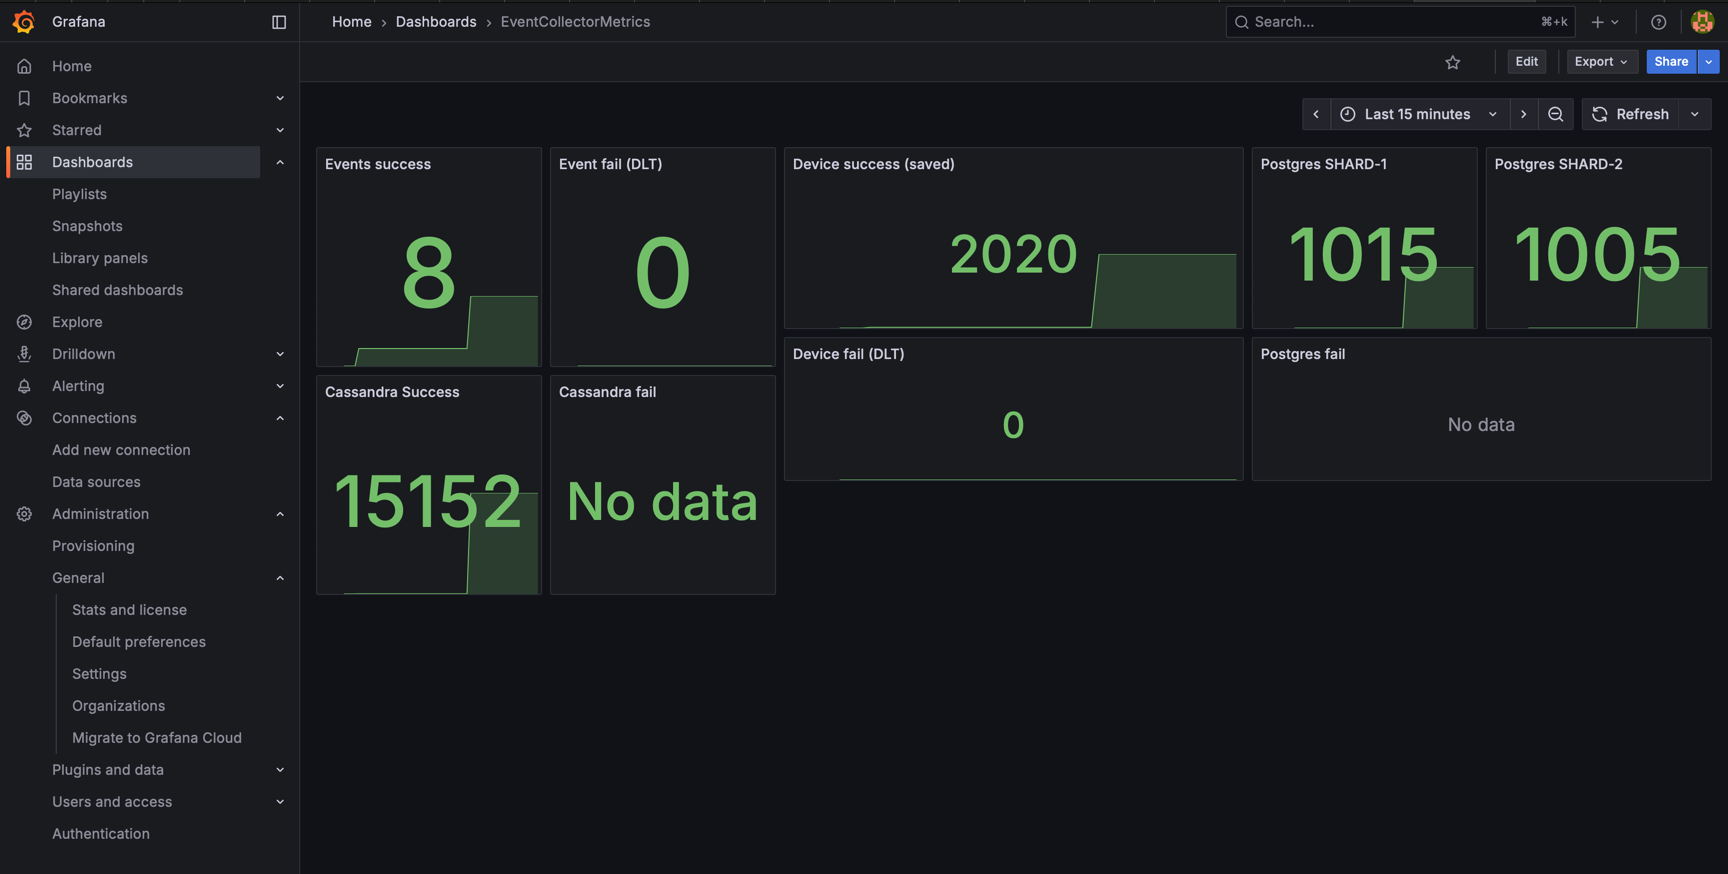
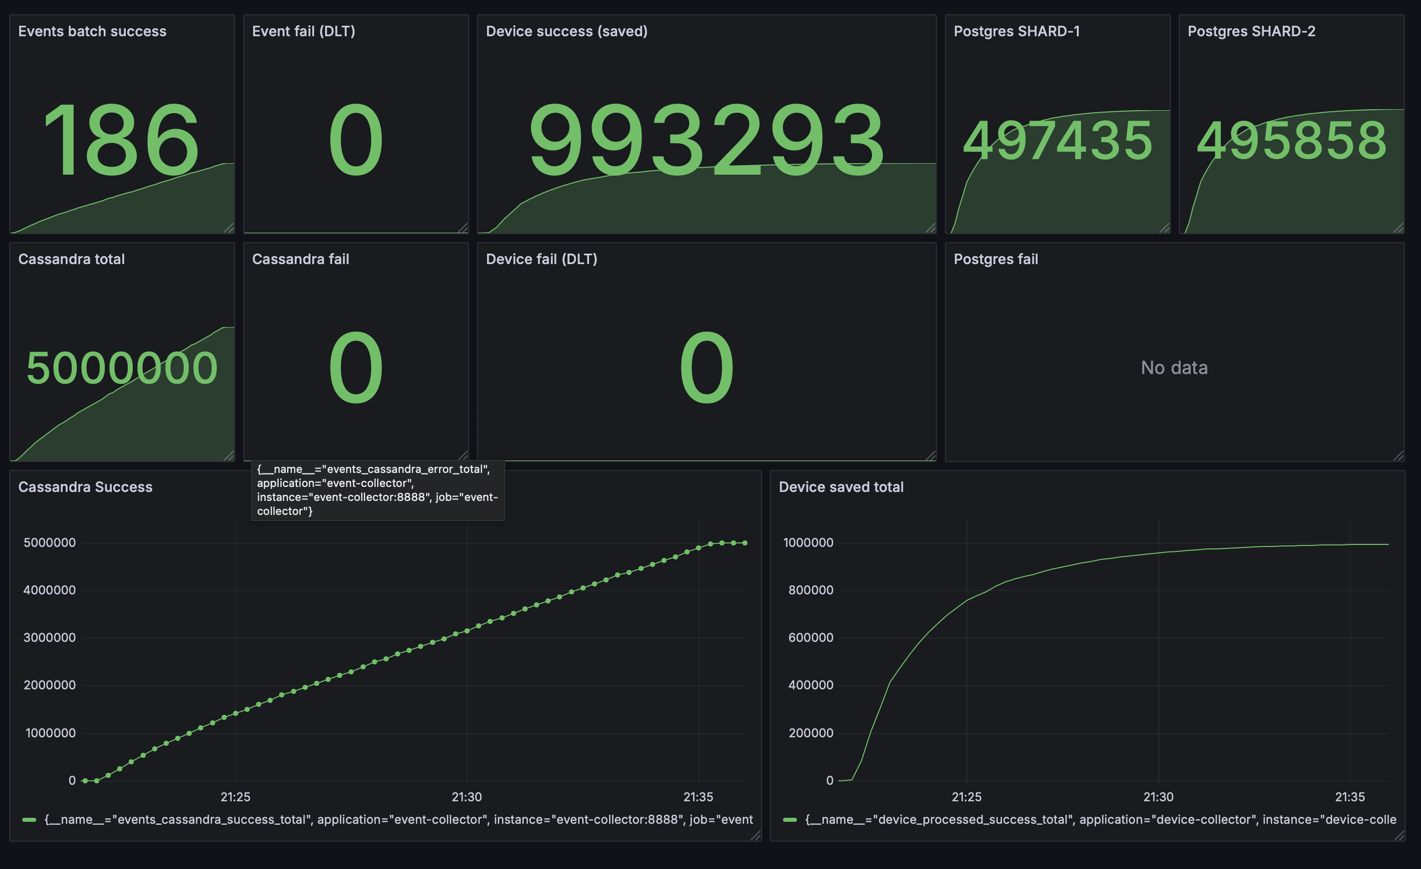
мелкие правки

diff --git a/kafka-producer/src/main/java/ts/andrey/kafkaproducer/utils/MessageGenerator.java b/kafka-producer/src/main/java/ts/andrey/kafkaproducer/utils/MessageGenerator.java
@@ -18,16 +18,16 @@ import java.util.concurrent.ThreadLocalRandom;
 public class MessageGenerator {
 
     private static final List<String> DEVICE_TYPES = List.of("sensor", "actuator", "controller", "gateway");
-    private static final int RANGE_START = -50;
-    private static final int RANGE_END = 50;
+    private static final long RANGE_START = -50;
+    private static final long RANGE_END = 50;
 
     private static List<String> devicePool = new ArrayList<>();
 
-    public List<DeviceEvent> generate(int messageCount, int deviceCount, boolean persist) {
+    public List<DeviceEvent> generate(long messageCount, long deviceCount, boolean persist) {
         List<String> ulidPool = persist ? syncDevicePool(deviceCount) : generateUlidPool(deviceCount);
 
         List<DeviceEvent> events = new ArrayList<>();
-        for (int i = 0; i < messageCount; i++) {
+        for (long i = 0; i < messageCount; i++) {
             events.add(generateRandomMessage(ulidPool));
         }
 
@@ -37,18 +37,18 @@ public class MessageGenerator {
         return events;
     }
 
-    private List<String> syncDevicePool(int deviceCount) {
+    private List<String> syncDevicePool(long deviceCount) {
         if (devicePool.size() < deviceCount) {
             devicePool.addAll(generateUlidPool(deviceCount - devicePool.size()));
         } else if (devicePool.size() > deviceCount) {
-            devicePool = new ArrayList<>(devicePool.subList(0, deviceCount));
+            devicePool = new ArrayList<>(devicePool.subList(0, (int) deviceCount));
         }
         return devicePool;
     }
 
-    private List<String> generateUlidPool(int count) {
-        List<String> ulids = new ArrayList<>(count);
-        for (int i = 0; i < count; i++) {
+    private List<String> generateUlidPool(long count) {
+        List<String> ulids = new ArrayList<>((int) count);
+        for (long i = 0; i < count; i++) {
             ulids.add(UlidCreator.getUlid().toString());
         }
         return ulids;

diff --git a/kafka-producer/src/main/java/ts/andrey/kafkaproducer/controller/Controller.java b/kafka-producer/src/main/java/ts/andrey/kafkaproducer/controller/Controller.java
@@ -33,13 +33,17 @@ public class Controller {
 
     @GetMapping("/send/generate")
     public ResponseEntity<GenerateResponse> sendKafkaMessageGenerate(
-            @RequestParam("messageCount") Integer messageCount,
-            @RequestParam("deviceCount") Integer deviceCount,
+            @RequestParam("messageCount") long messageCount,
+            @RequestParam("deviceCount") long deviceCount,
             @RequestParam(name = "saveDevice", required = false, defaultValue = "false") Boolean saveDevice
     ) {
         final var messages = MessageGenerator.generate(messageCount, deviceCount, saveDevice);
         kafkaProducer.send(messages);
-        return ResponseEntity.ok(new GenerateResponse(messages, deviceCount, messageCount));
+        final var deviceIdsCount = messages.stream()
+                .map(it -> it.getDevice().getDeviceId())
+                .distinct()
+                .count();
+        return ResponseEntity.ok(new GenerateResponse(deviceIdsCount, messageCount));
     }
 
 }

diff --git a/kafka-producer/src/main/java/ts/andrey/kafkaproducer/model/GenerateResponse.java b/kafka-producer/src/main/java/ts/andrey/kafkaproducer/model/GenerateResponse.java
@@ -1,27 +1,19 @@
 package ts.andrey.kafkaproducer.model;
 
-import com.nashkod.avro.DeviceEvent;
 import io.opentelemetry.api.trace.Span;
 import lombok.Getter;
-
-import java.util.List;
 
 @Getter
 public class GenerateResponse {
 
-    public GenerateResponse(List<DeviceEvent> events, Integer deviceCount, Integer messageCount) {
+    public GenerateResponse(long deviceCount, long messageCount) {
         this.messageCount = messageCount;
         this.deviceCount = deviceCount;
-        deviceIds = events.stream()
-                .map(it -> it.getDevice().getDeviceId())
-                .distinct()
-                .toList();
         trace = Span.current().getSpanContext().getTraceId();
     }
 
-    private final Integer messageCount;
-    private final Integer deviceCount;
-    private final List<String> deviceIds;
+    private final long messageCount;
+    private final long deviceCount;
     private final String trace;
 
 }
